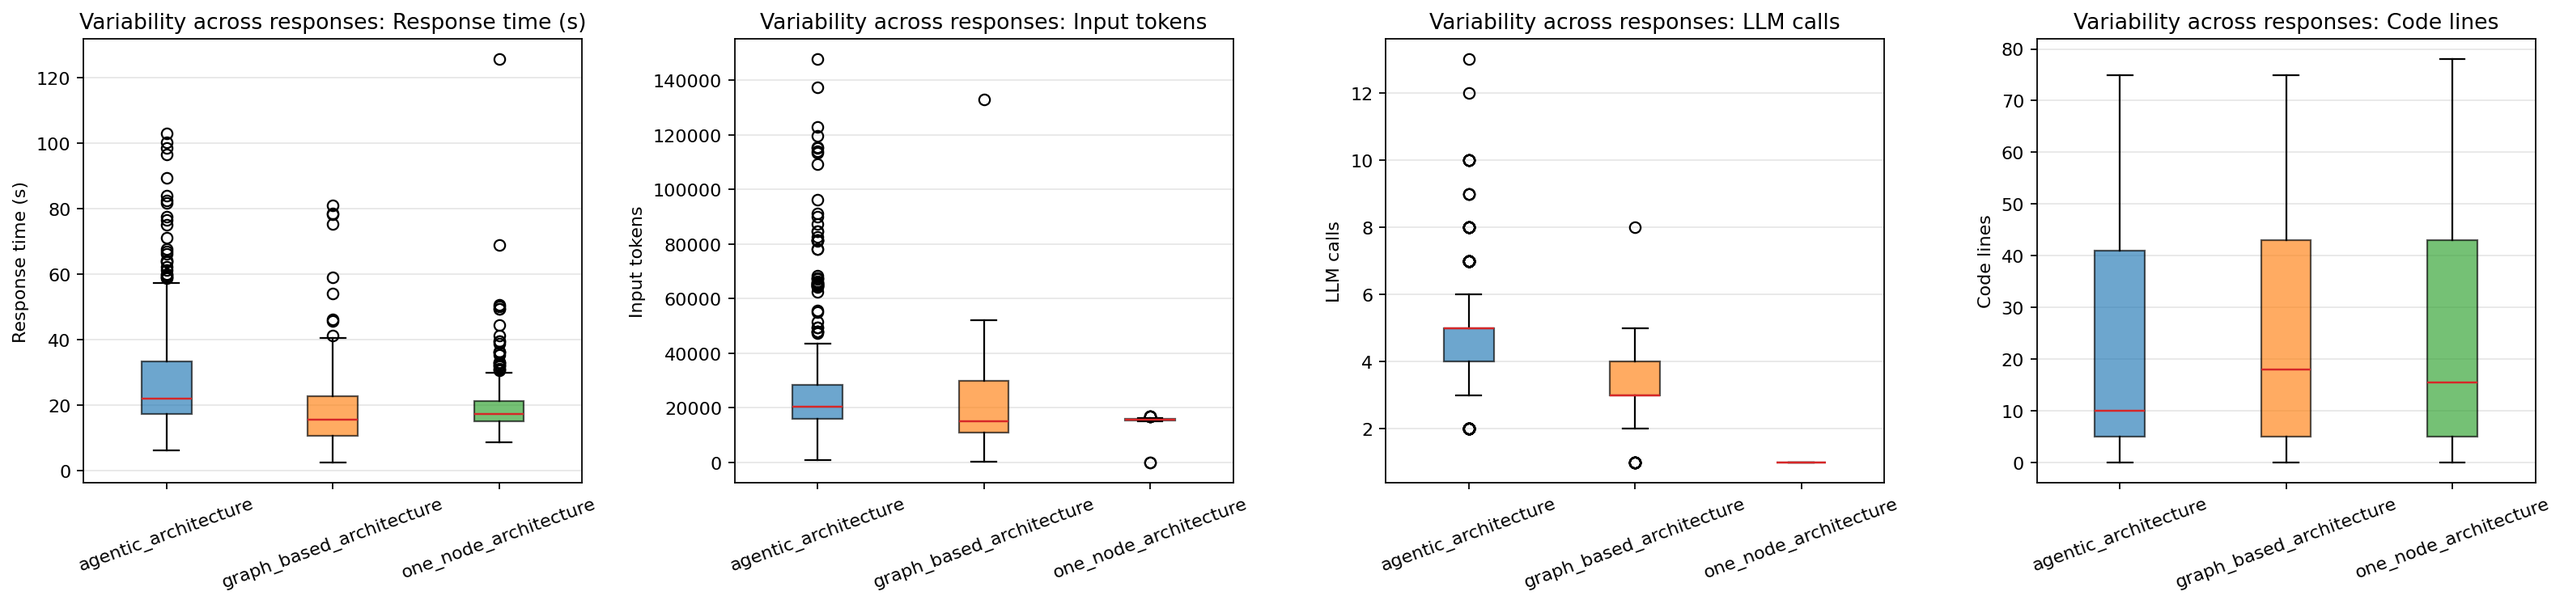
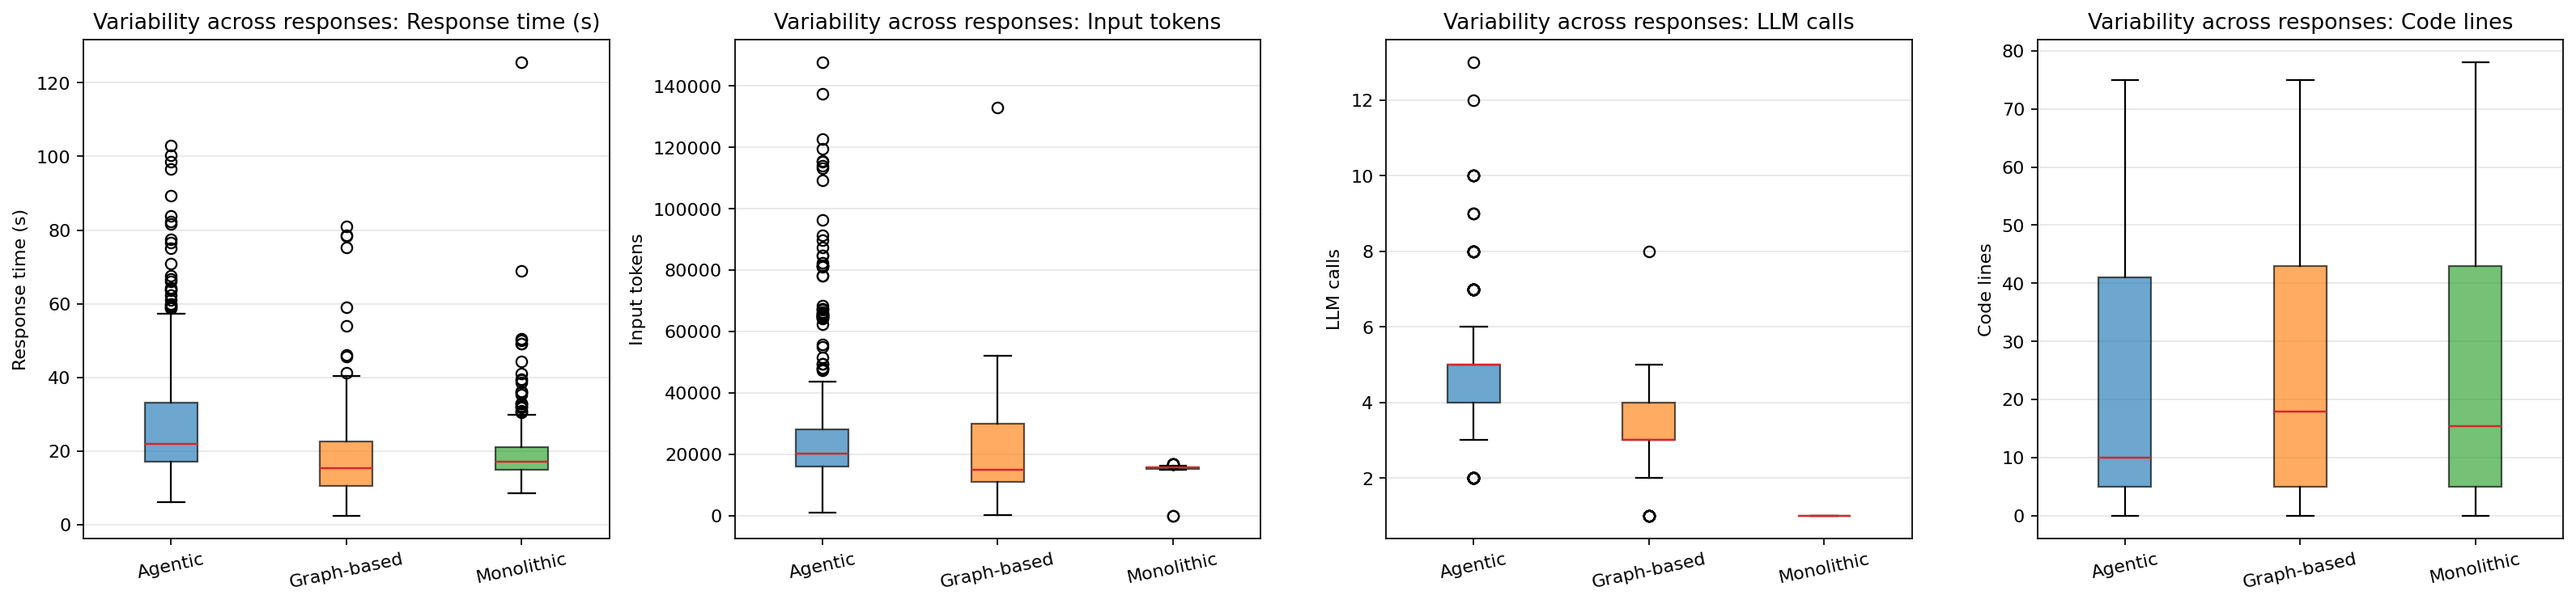
change plot size

diff --git a/app/rq2_plots.py b/app/rq2_plots.py
@@ -4,6 +4,13 @@ from typing import Sequence
 import pandas as pd
 
 
+ARCH_DISPLAY_LABELS = {
+    "agentic_architecture": "Agentic",
+    "graph_based_architecture": "Graph-based",
+    "one_node_architecture": "Monolithic",
+}
+
+
 def _rate_equals_one(series: pd.Series) -> float:
     """Return the share of observed numeric values that equal 1."""
     numeric = pd.to_numeric(series, errors="coerce")
@@ -39,6 +46,11 @@ def _ordered_arches(df: pd.DataFrame, preferred: Sequence[str] | None) -> list[s
     return valid_preferred + extras
 
 
+def _display_arch_labels(architectures: Sequence[str]) -> list[str]:
+    """Return shorter human-readable labels for plots."""
+    return [ARCH_DISPLAY_LABELS.get(arch, arch.replace("_", " ")) for arch in architectures]
+
+
 def generate_plots(
     out_dir: Path,
     filtered_rows: pd.DataFrame,
@@ -72,6 +84,7 @@ def generate_plots(
 
     colors = plt.get_cmap("tab10").colors
     color_map = {arch: colors[i % len(colors)] for i, arch in enumerate(arch_order)}
+    arch_labels = _display_arch_labels(arch_order)
 
     def _save(fig, filename: str) -> None:
         fig.tight_layout()
@@ -100,10 +113,10 @@ def generate_plots(
                 color=[color_map[labels[i]] for i in x_valid],
                 alpha=0.9,
             )
-        ax.set_xticks(x_all, labels)
+        ax.set_xticks(x_all, _display_arch_labels(labels))
         ax.set_title(f"Average per response: {label}")
         ax.set_ylabel(label)
-        ax.tick_params(axis="x", rotation=20)
+        ax.tick_params(axis="x", rotation=15)
         ax.grid(axis="y", alpha=0.3)
     _save(fig, "RQ2_per_response_mean_std")
 
@@ -119,7 +132,7 @@ def generate_plots(
         ]
         box = ax.boxplot(
             data,
-            labels=arch_order,
+            labels=arch_labels,
             patch_artist=True,
             showfliers=True,
             medianprops={"color": "#d62728", "linewidth": 1.1},
@@ -129,9 +142,38 @@ def generate_plots(
             patch.set_alpha(0.65)
         ax.set_title(f"Variability across responses: {label}")
         ax.set_ylabel(label)
-        ax.tick_params(axis="x", rotation=20)
+        ax.tick_params(axis="x", rotation=12)
         ax.grid(axis="y", alpha=0.3)
     _save(fig, "RQ2_per_response_distributions")
+
+    # Figure 2b: per-metric distribution plots with larger readable panels
+    for metric, label in metrics.items():
+        data = [
+            pd.to_numeric(
+                filtered_rows.loc[filtered_rows["arch_id"] == arch, metric], errors="coerce"
+            ).dropna()
+            for arch in arch_order
+        ]
+        if not any(len(series) for series in data):
+            continue
+        fig, ax = plt.subplots(1, 1, figsize=(5.6, 4.9))
+        box = ax.boxplot(
+            data,
+            labels=arch_labels,
+            patch_artist=True,
+            showfliers=True,
+            widths=0.45,
+            medianprops={"color": "#d62728", "linewidth": 1.2},
+        )
+        for patch, arch in zip(box["boxes"], arch_order):
+            patch.set_facecolor(color_map[arch])
+            patch.set_alpha(0.65)
+        ax.set_title(label, fontsize=14)
+        ax.set_ylabel(label, fontsize=12)
+        ax.tick_params(axis="x", rotation=10, labelsize=12)
+        ax.tick_params(axis="y", labelsize=11)
+        ax.grid(axis="y", alpha=0.3)
+        _save(fig, f"RQ2_per_response_distribution_{metric}")
 
     # Figure 3: quality/reliability rates (if available)
     quality_panels: list[tuple[str, pd.Series, str]] = []
@@ -165,7 +207,8 @@ def generate_plots(
             ax.set_ylim(0, 1)
             ax.set_title(title)
             ax.set_ylabel(ylabel)
-            ax.tick_params(axis="x", rotation=20)
+            ax.set_xticks(range(len(series.index)), _display_arch_labels(series.index.tolist()))
+            ax.tick_params(axis="x", rotation=15)
             ax.grid(axis="y", alpha=0.3)
 
             for i, value in enumerate(series):
@@ -186,7 +229,7 @@ def generate_plots(
             fig, ax = plt.subplots(1, 1, figsize=(7.5, 4.8))
             box = ax.boxplot(
                 series_by_arch,
-                labels=arch_order,
+                labels=arch_labels,
                 patch_artist=True,
                 showfliers=True,
                 medianprops={"color": "#d62728", "linewidth": 1.2},
@@ -196,7 +239,7 @@ def generate_plots(
                 patch.set_alpha(0.65)
             ax.set_title("Lines of Code per Response")
             ax.set_ylabel("Code lines")
-            ax.tick_params(axis="x", rotation=20)
+            ax.tick_params(axis="x", rotation=15)
             ax.grid(axis="y", alpha=0.3)
             _save(fig, "RQ2_answer_code_lines_distribution")
 
@@ -219,10 +262,10 @@ def generate_plots(
                 if "cmedians" in violin:
                     violin["cmedians"].set_color("#d62728")
                     violin["cmedians"].set_linewidth(1.2)
-                ax.set_xticks(positions, arch_order)
+                ax.set_xticks(positions, arch_labels)
                 ax.set_title("Lines of Code per Response")
                 ax.set_ylabel("Code lines")
-                ax.tick_params(axis="x", rotation=20)
+                ax.tick_params(axis="x", rotation=15)
                 ax.grid(axis="y", alpha=0.3)
                 _save(fig, "RQ2_answer_code_lines_violin_distribution")
             except Exception as exc:  # pragma: no cover - defensive plotting fallback
